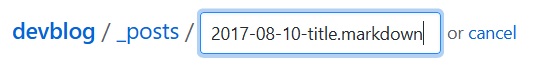
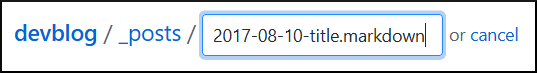
Update README. Add border for the images of README.

Changed region(s): [[0.0, 0.0, 1.0, 1.0]]

diff --git a/README.md b/README.md
@@ -59,9 +59,6 @@ To add new posts, simply add a file in the `_posts` directory that follows the c
 
 Everything in between the first and second `---` are part of the YAML Front Matter, and everything after the second `---` will be rendered with Markdown and show up as “Content.”
 
-### Markdown CheatSheet
-[Need help with Markdown? Click here.](https://github.com/adam-p/markdown-here/wiki/Markdown-Cheatsheet)
-
 ## Naming convention of post files 
 Post files are markdown files. Hence the file extension is *.markdown. The name of the post file must start with the current date (format: **YYYY-MM-DD**) followed by the title of the blog post. Each word should be separated by a dash '-'.
 
@@ -87,14 +84,26 @@ A valid filename looks like this: **2017-08-10-title-of-the-post.markdown**
 5. Start writing your post content. Use the [markdown syntax (Link to CheatSheet)](https://github.com/adam-p/markdown-here/wiki/Markdown-Cheatsheet) to format your content. 
 
 6. When you are done writing your post and want to publish it, you need to **create a pull request**.
-   6.1 To create a pull request, first you must "propose new file". For that, go to the bottom of the page. You will find an area with text fields for proposing a new file. Give a name and a description for the file (Or leave it as is. It will then take the default value as shown.) and click on the button **Propose new file**. 
+   
+   6.1 **Propose new file**
+
+   To create a pull request, first you must "propose new file". For that, go to the bottom of the page. You will find an area with text fields for proposing a new file. Give a name and a description for the file (Or leave it as is. It will then take the default value as shown.) and click on the button **Propose new file**. 
 
    ![Propose new file](/assets/images/how_to_write_a_post/04_propose_new_file.PNG)
 
-   6.2 Github will then direct you to a site for creating a "Pull Request". If you have not forked this project yet, Github will automatically fork this repository in your Github account and create a branch named like "patch-1" that contains your new file or your file changes.
+   6.2 **Create pull request** 
 
-   You can then click on the button "Create pull request". The admins of the devblog repository will get a message notifying that there are changes that need a review. After the admins have reviewed and accepted your changes, you can view your post shortly after on adessos blog site [https://blog.adesso.de](https://blog.adesso.de)
+   Github will then direct you to a site for creating a "Pull Request". If you have not forked this project yet, Github will automatically fork this repository in your Github account and create a branch named like "patch-1" that contains your new file or your file changes.
 
-   ![Propose new file](/assets/images/how_to_write_a_post/05_pull_request.PNG)
+   Then, you can click on the button "Create pull request". 
 
-#### *More description coming soon...*
+   ![Pull request](/assets/images/how_to_write_a_post/05_pull_request.PNG)
+
+   An area with text fields will show up where you can add a message for the pull request. But you can leave the defaults as generated by Github. Click on the Button "Create pull request" to finish the request process.
+
+   ![Pull request](/assets/images/how_to_write_a_post/06_open_pull_request.PNG)
+
+   The admins of the devblog repository will get a message notifying that there are changes that need a review. After they have reviewed and accepted your changes, you can view your post shortly after on adessos blog site [https://blog.adesso.de](https://blog.adesso.de)
+
+### Markdown CheatSheet
+[Need help with Markdown? Click here.](https://github.com/adam-p/markdown-here/wiki/Markdown-Cheatsheet)
